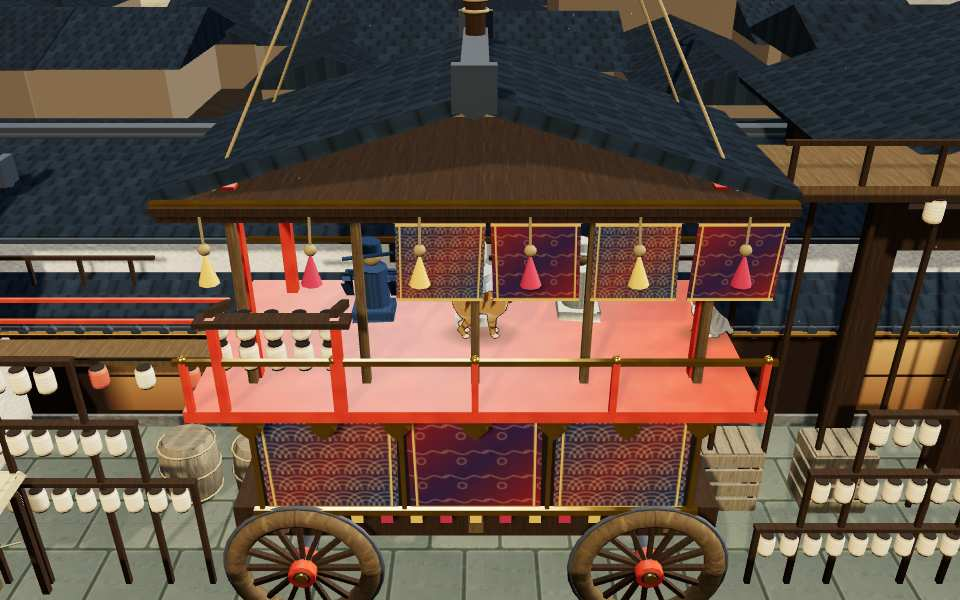
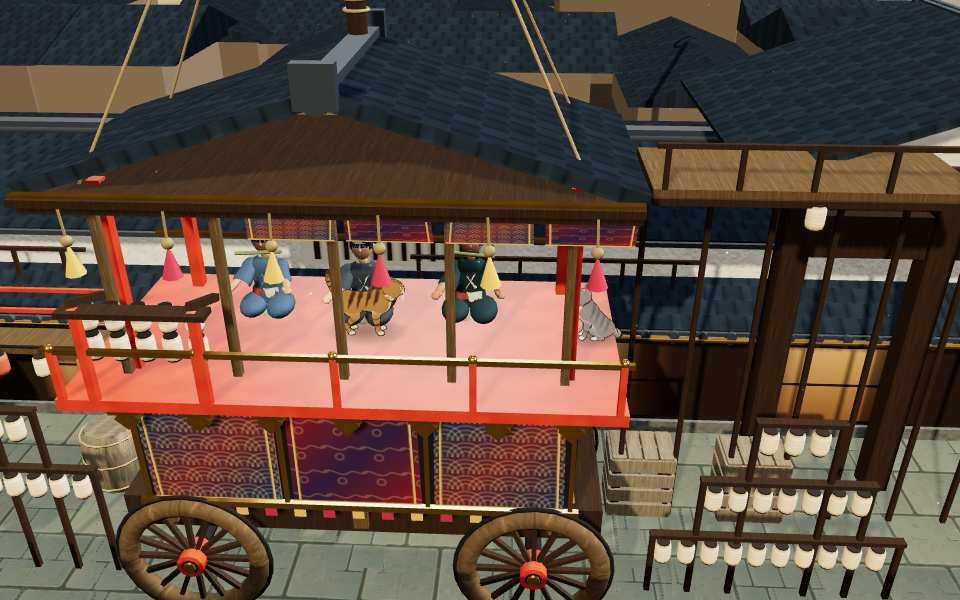
r4-festival fix round 1: measured budget rows, classic material set, classic hayashi kept (R75)

diff --git a/src/kit/rooffestival/floats.js b/src/kit/rooffestival/floats.js
@@ -6,6 +6,8 @@
 import { PBag, seg } from './pbag.js?v=20261114a';
 import { Bag } from '../craft.js?v=20261114a';
 import { buildPagoda } from '../pagoda/build.js?v=20261114a';
+import { makeResident } from '../../../rooftops/js/people.js?v=20261114a';
+import { mergeByMaterial } from '../../../rooftops/js/pieces/common.js?v=20261114a';
 
 /* ------------------------------------------------------------------- hoko --- */
 
@@ -18,12 +20,12 @@ export function buildHoko(ctx, layout, p) {
   for (const x of [-2.1, 2.1]) for (const dz of [-1.25, 1.25]) {
     if (far) { b.cyl(0.95, 0.14, { m: 'timber', part: 'wheels', axis: 'z', seg: 9, x, y: 0.95, z: z + dz }); continue; }
     b.add(new T.TorusGeometry(0.82, 0.13, hero ? 7 : 5, hero ? 24 : 14), { m: 'timberMed', part: 'wheels', x, y: 0.95, z: z + dz });
-    b.add(new T.TorusGeometry(0.955, 0.032, hero ? 5 : 3, hero ? 28 : 18), { m: 'steel', part: 'tyres', x, y: 0.95, z: z + dz });
+    b.add(new T.TorusGeometry(0.955, 0.032, hero ? 5 : 3, hero ? 28 : 18), { m: 'dark', part: 'tyres', x, y: 0.95, z: z + dz });
     b.cyl(0.17, 0.34, { m: 'lacquer', part: 'hubs', axis: 'z', seg: 10, x, y: 0.95, z: z + dz });
     b.cyl(0.08, 0.04, { m: 'gold', part: 'hubs', axis: 'z', seg: 8, x, y: 0.95, z: z + dz + Math.sign(dz) * 0.19 });
     for (let i = 0; i < spokes; i++) b.box(1.43, 0.055, 0.065, { m: 'timber', part: 'spokes', x, y: 0.95, z: z + dz, rz: (i * Math.PI) / spokes });
   }
-  for (const x of [-2.1, 2.1]) b.cyl(0.105, 2.85, { m: 'steel', part: 'axles', axis: 'z', seg: far ? 6 : 10, x, y: 0.95, z });
+  for (const x of [-2.1, 2.1]) b.cyl(0.105, 2.85, { m: 'dark', part: 'axles', axis: 'z', seg: far ? 6 : 10, x, y: 0.95, z });
 
   // undercarriage, cross-bracing, the textile-draped lower body (three separate front panels)
   b.box(5.8, 0.45, 2.2, { m: 'timber', part: 'carriage', y: 1.55, z });
@@ -58,7 +60,7 @@ export function buildHoko(ctx, layout, p) {
   b.box(5.95, 0.16, 3.0, { m: 'timber', part: 'eave', y: pc.eaveY - 0.11, z });
   b.box(5.95, 0.08, 0.1, { m: 'gold', part: 'eave', y: pc.eaveY - 0.01, z: z + 1.53 });
   if (!far) {   // mizu-maku: brocade curtains hung under the front eave, clear of the climb frame at x < -1.3
-    for (let i = 0; i < 4; i++) b.box(0.84, 0.5, 0.02, { m: `brocade${i % 2}`, part: 'brocade', x: -0.35 + i * 0.95, y: pc.eaveY - 0.4, z: z + 1.46 });
+    for (let i = 0; i < 4; i++) b.box(0.84, 0.3, 0.02, { m: `brocade${i % 2}`, part: 'brocade', x: -0.35 + i * 0.95, y: pc.eaveY - 0.27, z: z + 1.46 });
   }
   b.slope('roof', { x: -3.0, y: pc.eaveY, z }, pc.ridgeY - pc.eaveY - 0.18, 3.0, 2.8, -Math.PI / 2, 0.15);
   b.slope('roof', { x: 3.0, y: pc.eaveY, z }, pc.ridgeY - pc.eaveY - 0.18, 3.0, 2.8, Math.PI / 2, 0.15);
@@ -105,25 +107,26 @@ export function buildHoko(ctx, layout, p) {
     live.add(pivot);
     tassels.push(pivot);
   }
-  for (let i = 0; i < (far ? 0 : 3); i++) {
-    const person = new T.Group();
-    person.position.set(-1.25 + i * 1.25, pc.deckY + 0.04, z - 0.34 + (i % 2) * 0.16);
-    const robe = new Bag(), skin = new Bag();
-    robe.box(0.7, 0.14, 0.52, { y: 0.07 });                                    // crossed legs
-    robe.cyl(0.25, 0.66, { y: 0.47, seg: 10 });                                // torso
-    robe.box(0.7, 0.1, 0.16, { y: 0.74 });                                     // shoulders and obi
-    robe.cyl(0.17, 0.22, { y: 1.12 });                                         // eboshi hat
-    skin.sphere(0.16, { y: 0.93, z: 0.02 });
-    for (const s of [-1, 1]) robe.box(0.13, 0.13, 0.42, { x: s * 0.36, y: 0.56, z: 0.18, rx: -1.0 });
-    if (i === 1) robe.cyl(0.22, 0.32, { y: 0.4, x: 0.3, z: 0.22, rz: Math.PI / 2 });   // the taiko
-    else robe.cyl(0.026, 0.7, { y: 0.84, z: 0.32, rz: Math.PI / 2 + (i ? -0.08 : 0.08) });  // the flute
-    person.add(robe.mesh(b.mat(`cloth${(i * 2 + 1) % 5}`)), skin.mesh(b.mat('hemp')));
-    person.userData.phase = i * 1.9;
-    person.userData.baseY = person.position.y;
-    live.add(person);
-    musicians.push(person);
+  // The classic hayashi (ruling R75): the same makeResident figures, built exactly as pieces/float.js builds them, until r5's
+  // roof-hayashi replaces them. Only where the Roof Road's resident materials exist (ctx.MAT.workCloth).
+  if (!far && ctx.MAT && ctx.MAT.workCloth) {
+    const M = ctx.MAT;
+    for (let i = 0; i < 3; i++) {
+      const { body: person, arms } = makeResident(M, { look: 0.18 + i * 0.27, role: 'musician', seated: true });
+      person.position.set(-1.25 + i * 1.25, pc.deckY + 0.04, z - 0.34 + (i % 2) * 0.16);
+      arms[0].rotation.x = -1.05; arms[1].rotation.x = -1.15;
+      arms[0].rotation.z = -0.35; arms[1].rotation.z = 0.35;
+      if (i === 1) { const drum = new T.Mesh(new T.CylinderGeometry(0.18, 0.18, 0.26, 10).rotateX(Math.PI / 2), M.timberMed); drum.position.set(0.23, 0.38, 0.12); person.add(drum); }
+      else { const flute = new T.Mesh(new T.CylinderGeometry(0.022, 0.022, 0.58, 6).rotateZ(Math.PI / 2), M.bamboo); flute.position.set(0, 0.9, 0.25); flute.rotation.z = i ? -0.08 : 0.08; person.add(flute); }
+      const source = new T.Group();
+      for (const child of [...person.children]) source.add(child);
+      person.add(mergeByMaterial(source));
+      person.userData.phase = i * 1.9;
+      person.userData.baseY = person.position.y;
+      live.add(person);
+      musicians.push(person);
+    }
   }
-  live.traverse((o) => { if (o.isMesh) { o.castShadow = true; o.receiveShadow = true; } });
 
   const out = b.finish();
   out.group.add(live);
@@ -145,30 +148,29 @@ export function buildYama(ctx, layout, p) {
   b.box(w, 0.18, 2.4, { m: 'timberMed', part: 'deck', y: pc.deckY - 0.09, z: d });
   for (const zz of [-1.1, 1.1]) b.box(w, 1.4, 0.035, { m: 'tapestry', part: 'skirt', y: pc.deckY - 0.8, z: d + zz });
   for (const sx of [-1, 1]) b.box(0.035, 1.4, 2.2, { m: 'tapestry', part: 'skirt', x: sx * (w / 2 - 0.02), y: pc.deckY - 0.8, z: d });
-  b.box(w + 0.04, 0.05, 0.05, { m: 'gold', part: 'trim', y: pc.deckY - 0.12, z: d + 1.2 });
+  b.box(w + 0.04, 0.05, 0.05, { m: 'timberMed', part: 'trim', y: pc.deckY - 0.12, z: d + 1.2 });
   b.box(w * 0.82, 0.6, 1.9, { m: 'timber', part: 'chassis', y: 0.95, z: d });   // the axle bed under the skirts
   for (const x of [-w * 0.3, w * 0.3]) for (const zz of [-0.85, 0.85]) {
     b.cyl(0.44, 0.12, { m: 'timber', part: 'wheels', axis: 'z', seg: seg(t, 12), x, y: 0.455, z: d + zz });
-    if (!far) { b.cyl(0.07, 0.16, { m: 'steel', part: 'wheels', axis: 'z', seg: 6, x, y: 0.455, z: d + zz }); if (hero) b.add(new T.TorusGeometry(0.44, 0.025, 5, 16), { m: 'steel', part: 'wheels', x, y: 0.455, z: d + zz + Math.sign(zz) * 0.065 }); }
+    if (!far) { b.cyl(0.07, 0.16, { m: 'timber', part: 'wheels', axis: 'z', seg: 6, x, y: 0.455, z: d + zz }); if (hero) b.add(new T.TorusGeometry(0.44, 0.025, 5, 16), { m: 'timber', part: 'wheels', x, y: 0.455, z: d + zz + Math.sign(zz) * 0.065 }); }
   }
-  b.cyl(0.05, 2.0, { m: 'steel', part: 'wheels', axis: 'z', seg: 6, x: -w * 0.3, y: 0.455, z: d });
-  b.cyl(0.05, 2.0, { m: 'steel', part: 'wheels', axis: 'z', seg: 6, x: w * 0.3, y: 0.455, z: d });
+  b.cyl(0.05, 2.0, { m: 'timber', part: 'wheels', axis: 'z', seg: 6, x: -w * 0.3, y: 0.455, z: d });
+  b.cyl(0.05, 2.0, { m: 'timber', part: 'wheels', axis: 'z', seg: 6, x: w * 0.3, y: 0.455, z: d });
   b.box(1.8, 0.09, 1.5, { m: 'timber', part: 'stage', y: pc.deckY + 1.005, z: d - 0.1 });
   if (!far) {   // a low rail round the pine's stage, under the classic stage's top face
     for (const sx of [-1, 1]) b.box(0.04, 0.5, 0.04, { m: 'timber', part: 'stage', x: sx * 0.8, y: pc.deckY + 0.75, z: d + 0.6 });
-    b.box(1.62, 0.04, 0.04, { m: 'gold', part: 'stage', y: pc.deckY + 0.98, z: d + 0.62 });
+    b.box(1.62, 0.04, 0.04, { m: 'timberMed', part: 'stage', y: pc.deckY + 0.98, z: d + 0.62 });
     b.box(0.16, 0.9, 0.16, { m: 'timber', part: 'stage', x: 0, y: pc.deckY + 0.5, z: d - 0.1 });
   }
   b.beam([0, pc.deckY, d - 0.5], [0.1, pc.pineY - 0.08, d - 0.15], 0.09, { m: 'bark', part: 'trunk', seg: 7 });
   b.beam([-0.65, pc.pineY - 0.06, d - 0.15], [0.65, pc.pineY - 0.06, d - 0.15], 0.08, { m: 'bark', part: 'trunk', seg: 7 });
   if (!far) for (const s of [-1, 1]) b.beam([0.04, pc.deckY + 1.6, d - 0.3], [s * 0.7, pc.deckY + 1.1, d + 0.2], 0.035, { m: 'bark', part: 'trunk', seg: 5 });
-  // pine foliage: leaf planes on the classic's 48-leaf cloud, plus flat needle pads on hero
-  const count = hero ? 48 : t === 'mid' ? 30 : 14, leafGeo = new T.PlaneGeometry(1, 1, 1, 2);
+  // pine foliage: leaf planes on the classic's 48-leaf cloud
+  const count = hero ? 72 : t === 'mid' ? 40 : 14, leafGeo = new T.PlaneGeometry(1, 1, 1, 2);
   for (let i = 0; i < count; i++) {
     const a = rng() * TAU, rad = rng() * 0.55 * 2;
     b.add(leafGeo, { m: `leaves${i % 3}`, part: 'foliage', x: Math.cos(a) * rad, y: pc.pineY + 0.15 + Math.sin(i * 2.1) * 0.46, z: d - 0.35 + Math.sin(a) * rad, sx: 0.36, sy: 0.7, rx: -0.4 + rng() * 1.2, ry: a, rz: Math.sin(a) * 0.7 });
   }
-  if (!far) for (const [x, y, zz, r] of [[0, 0.1, -0.35, 0.5], [-0.55, -0.1, -0.2, 0.38], [0.55, -0.12, -0.3, 0.4]]) b.add(new T.IcosahedronGeometry(r, hero ? 1 : 0), { m: 'pine', part: 'pads', x, y: pc.pineY + y - 0.25, z: d + zz, sy: 0.45 });
   leafGeo.dispose();
   return b.finish();
 }

diff --git a/src/kit/rooffestival/stalls.js b/src/kit/rooffestival/stalls.js
@@ -115,15 +115,13 @@ export function buildRack(ctx, layout, p) {
     b.box(x1 - x0, 0.06, 0.12, { m: 'timber', part: 'beam', x: (x0 + x1) / 2, y: ty - 0.03, z: d });
     for (const x of [x0 + 0.04, x1 - 0.04]) b.box(0.07, ty, 0.07, { m: 'timber', part: 'posts', x, y: ty / 2, z: d });
     if (!far) {
-      b.box(x1 - x0 - 0.1, 0.035, 0.07, { m: 'timberMed', part: 'beam', x: (x0 + x1) / 2, y: ty - 0.4, z: d });   // a lower lantern rail
+      b.box(x1 - x0 - 0.1, 0.035, 0.07, { m: 'timber', part: 'beam', x: (x0 + x1) / 2, y: ty - 0.4, z: d });   // a lower lantern rail
       for (const x of [x0 + 0.04, x1 - 0.04]) b.beam([x, ty * 0.35, d], [x + (x < (x0 + x1) / 2 ? 0.34 : -0.34), ty - 0.4, d], 0.022, { m: 'timber', part: 'posts' });
     }
     const step = far ? 0.6 : 0.3;
     for (let x = x0 + 0.18; x < x1 - 0.1; x += step) {
       b.lantern(0.11, 0.3, { m: 'lanternWhite', part: 'lamps', seg: seg(t, 10), rims: !far, x, y: ty - 0.28, z: d + 0.02 });
-      if (hero) { b.cyl(0.006, 0.1, { m: 'dark', part: 'lamps', seg: 4, x, y: ty - 0.1, z: d + 0.02 }); b.cyl(0.02, 0.08, { m: 'lanternRed', part: 'lamps', seg: 5, r2: 0.005, x, y: ty - 0.5, z: d + 0.02 }); }
     }
-    if (hero) for (const x of [x0 + 0.04, x1 - 0.04]) b.sphere(0.045, { m: 'gold', part: 'posts', x, y: ty - 0.04, z: d });
   }
   const out = b.finish();
   const light = new ctx.THREE.Object3D();
@@ -142,13 +140,14 @@ export function buildTsuiji(ctx, layout, p) {
   b.slope('roof', { x: 0, y: 1.42, z: d + 0.6 }, 0.16, 0.5, w + 0.2, 0, 0.08);
   b.slope('roof', { x: 0, y: 1.42, z: d - 0.6 }, 0.16, 0.5, w + 0.2, Math.PI, 0.08);
   if (!far) {
-    // stone footing and the dark ground-line, a timber post every few metres, the dark eave boards under the roof edge
-    b.box(w + 0.04, 0.16, 0.76, { m: 'dark', part: 'footing', y: 0.08, z: d });
-    for (const s of [-1, 1]) b.box(w + 0.18, 0.05, 0.05, { m: 'ridge', part: 'eave', y: 1.4, z: d + s * 0.6 });
-    const n = Math.max(1, Math.round(w / 2.4));
-    for (let i = 0; i <= n; i++) for (const s of [-1, 1]) b.box(0.1, 1.4, 0.04, { m: 'timber', part: 'posts', x: -w / 2 + 0.05 + (w - 0.1) * (i / n), y: 0.72, z: d + s * 0.36 });
+    // footing under the wall and dark eave boards under the roof edges (same two materials as the classic wall)
+    b.box(w + 0.04, 0.16, 0.76, { m: 'sujibei', part: 'footing', y: 0.08, z: d });
+    for (const s of [-1, 1]) b.box(w + 0.18, 0.05, 0.05, { m: 'roof', part: 'eave', y: 1.4, z: d + s * 0.6 });
   }
-  if (hero) for (let i = 0; i < Math.round(w); i++) for (const s of [-1, 1]) b.box(0.012, 0.05, 0.05, { m: 'dark', part: 'eave', x: -w / 2 + (i + 0.5) * (w / Math.round(w)), y: 1.37, z: d + s * 0.64 });
+  if (hero) {   // a timber post pair every 12 m (a 660 m wall: spacing keeps the hero tier near the classic's size)
+    const n = Math.max(1, Math.round(w / 12));
+    for (let i = 0; i <= n; i++) for (const s of [-1, 1]) b.box(0.1, 1.4, 0.04, { m: 'sujibei', part: 'posts', x: -w / 2 + 0.05 + (w - 0.1) * (i / n), y: 0.72, z: d + s * 0.36 });
+  }
   return b.finish();
 }
 
@@ -160,7 +159,7 @@ export function buildGate(ctx, layout, p) {
   const x0 = pc.s0 - sm, x1 = pc.s1 - sm, zF = pc.dFront, zB = zF - pc.depth, zm = (zF + zB) / 2, foot = pc.foot;
   for (const x of [x0 + 0.3, x0 + 2.2, x1 - 2.2, x1 - 0.3]) for (const z of [zF - 0.3, zB + 0.3]) {
     b.box(0.36, foot, 0.36, { m: 'timber', part: 'posts', x, y: foot / 2, z });
-    if (!far) b.box(0.48, 0.14, 0.48, { m: 'dark', part: 'posts', x, y: 0.07, z });          // plinth stone under each post
+    if (!far) b.box(0.48, 0.14, 0.48, { m: 'timberMed', part: 'posts', x, y: 0.07, z });          // plinth stone under each post
     if (hero) b.box(0.44, 0.1, 0.44, { m: 'timberMed', part: 'posts', x, y: foot - 0.55, z });   // the daiwa bracket block
   }
   b.box(x1 - x0, 0.4, pc.depth, { m: 'timber', part: 'floor', y: foot - 0.2, z: zm });
@@ -172,7 +171,7 @@ export function buildGate(ctx, layout, p) {
     }
     b.box(2.3, 0.08, 0.04, { m: 'timber', part: 'doors', y: 2.6, z: zm + 0.07 });
     b.box(2.3, 0.08, 0.04, { m: 'timber', part: 'doors', y: 0.7, z: zm + 0.07 });
-    for (const x of [-0.18, 0.18]) b.sphere(0.07, { m: 'bronze', part: 'doors', x, y: 1.5, z: zm + 0.09, seg: 6 });
+    for (const x of [-0.18, 0.18]) b.sphere(0.07, { m: 'timberMed', part: 'doors', x, y: 1.5, z: zm + 0.09, seg: 6 });
   }
   // tsuma-iri roof (rooftops/js/pieces/machiya.js tsumaRoof, ported), gable to the street
   const oh = 0.6, eave = foot, ridge = pc.ridge - 0.06, xm = (x0 + x1) / 2, half = (x1 - x0) / 2 + oh, width = zF - zB + 1.1;

diff --git a/src/kit/budgets.js b/src/kit/budgets.js
@@ -144,20 +144,24 @@ export const BUDGET_EXCEPTIONS = Object.freeze({
     hero: { triangles: 7000 }, mid: { triangles: 3800 }, far: { triangles: 1800, materials: 3 },
     why: 'three range rings (one material each, the summit hazes them by layer), each only the arc the seat looks over; classic 3 x 1,760 = 5.3k tris, modular 6,600 / 3,504 / ~1.6k (hero/mid/far)'
   },
-  // r4-festival (Roof Road mouths 6-7): whole festival pieces in the Roof Road's own painterly set (ctx.MAT, R52: no new material).
-  // Each bucket is a part; after the facade's mergeByMaterial every instance folds into one draw per material, so the mesh and
-  // material counts here are parts, not draws. Measured with kit_contract_test --family rooffestival (hero/mid/far).
+  // r4-festival (Roof Road mouths 6-7): whole festival pieces built in the Roof Road's own painterly set (ctx.MAT; R52). Each bucket
+  // is a PART; the facade's mergeByMaterial folds every instance into one draw per material and 32 m cell. Measured on the Roof Road
+  // page (build of the real level pieces, classic builder vs kit builder; tools: headless eval, 2026-11-15, uptime load 2.8-3.0).
+  // Page draw calls (one render, shadows included), classic vs all 7 ids swapped: mouth 6 yama 789 / 787, yatai 783 / 781; mouth 7
+  // hoko 617 / 610, gate 492 / 491; finale 454 / 448: modular is at or under classic everywhere.
   'roof-yatai': {
-    hero: { meshes: 24, materials: 15 }, mid: { meshes: 22, materials: 14 },
-    why: 'awning cloth, timbers, counter, three noren panels, the fare (up to five goods colours), lantern paper, sign and decorateStall dressing: 23 / 21 / 3 meshes, 15 / 14 / 2 materials; classic is ~40 meshes in 12 materials'
+    hero: { meshes: 24, materials: 16 }, mid: { meshes: 22, materials: 14 },
+    why: 'largest of 19 stalls incl. decorateStall dressing. Classic 62 meshes / 2,450 tris / 17 materials; modular hero 24 / 1,680 / 16, mid 21 (22 on the contract sample, a masks stall) / 1,222 / 14, far 2 / 278 / 2. Materials are the stall\'s own (awning cloth, timbers, noren, fare goods, lantern paper, sign, twine, enamel, glass): none new, 1 fewer than classic, so merged draws are not above classic'
   },
   'roof-hoko': {
-    hero: { meshes: 52, materials: 18 }, mid: { triangles: 7500, meshes: 50, materials: 18 },
-    why: 'the great float: spoked wheels, brocade panels, lacquer deck, gold trim, roof, mast, 6 live tassels and 3 live hayashi; 51 / 48 meshes, 18 materials, mid 7,112 tris; classic is ~150 meshes in 14 materials. Far is 2 materials, 3 meshes'
+    hero: { triangles: 41000, meshes: 90, materials: 30 }, mid: { triangles: 37500, meshes: 90, materials: 30 },
+    why: 'the one great float, with the CLASSIC hayashi kept (ruling R75: 3 makeResident musicians, ~30k tris). Classic 204 meshes / 38,558 tris / 31 materials; modular hero 89 / 40,670 / 29, mid 86 / 37,158 / 29, far 2 / 908 / 2. Mid is under classic high (budget rule). Materials 2 fewer than classic, no new merged material; draws 617 -> 610 at the hoko, 454 -> 448 at the finale. The contract page has no resident materials, so it builds the float without the musicians'
   },
-  'roof-temple-gate': { hero: { materials: 7 }, mid: { meshes: 11, materials: 7 }, why: 'timber, dark plinths, doors, roof tile, ridge, plaster gable and bronze studs: 7 materials, 11 mid meshes' },
-  'roof-tsuiji': { mid: { materials: 5 }, why: 'sujibei wall, roof tile, dark footing, ridge-grey eave boards and timber posts: 5 materials' },
-  'roof-yama': { hero: { materials: 10 }, mid: { meshes: 13, materials: 10 }, why: 'kakiyama float: timber, tapestry, gold, steel, bark and three leaf materials, pine pads: 10 materials, 13 mid meshes' },
+  'roof-temple-gate': { mid: { meshes: 10, materials: 5 }, why: 'one gate. Classic 21 meshes / 250 tris / 5 materials; modular hero 10 / 610 / 5, mid 10 / 514 / 5, far 2 / 250 / 2. Same five materials as classic: 0 added' },
+  'roof-yama': {
+    hero: { materials: 7 }, mid: { meshes: 11, materials: 7 },
+    why: 'one kakiyama float. Classic 58 meshes / 488 tris / 7 materials; modular hero 11 / 1,504 / 7, mid 11 / 672 / 7, far 2 / 352 / 2. Same seven materials as classic (timber, timberMed, tapestry, bark, three leaves): 0 added'
+  }
 });
 
 /** The budget row for one asset and tier, with exceptions applied. */

diff --git a/docs/fable/handoff/r4-festival.md b/docs/fable/handoff/r4-festival.md
@@ -9,7 +9,7 @@ run `node tools/kit_index.mjs`.
 |---|---|---|
 | roof-yatai | yatai (+ downtown `decorateStall`, folded in: the kit instance replaces both) | awning, scalloped valance, front/back posts, counter + plank front, noren in three panels, fare, chochin, sign board, crate and parcels, wind chimes / masks / kingyo / kakigori / grill / ringo / matcha trimmings. Socket `light_0` = the classic `ctx.light(sm + 0.28w, y-0.3, d+0.7)` |
 | roof-lantern-racks | rack | tier beams, posts, braces, lantern rows with caps. Socket `light_0` = `(0, 1.6, d+0.3)` |
-| roof-hoko | float | wheels (spokes by tier), carriage, brocade panels with lace and fringe, deck, balustrade, brackets, pillars, eave, brocade curtains, roof, ridge, lantern frame, climb frame, mast, crescent, lashings, guy ropes. Live group (part `live_group`): 6 tassels + 3 seated hayashi; `dynamic.float = { group, tassels, musicians }` as the classic record. Sockets `light_deck`, `light_body` |
+| roof-hoko | float | wheels (spokes by tier), carriage, brocade panels with lace and fringe, deck, balustrade, brackets, pillars, eave, brocade curtains, roof, ridge, lantern frame, climb frame, mast, crescent, lashings, guy ropes. Live group (part `live_group`): 6 tassels + the CLASSIC 3 hayashi (ruling R75: `makeResident` imported from `rooftops/js/people.js`, built exactly as `pieces/float.js`, only where `ctx.MAT.workCloth` exists); `dynamic.float = { group, tassels, musicians }` as the classic record. Sockets `light_deck`, `light_body` |
 | roof-temple-gate | gate | posts on plinths, floor, beam, doors with stiles and studs, tsuma-iri roof, ridge, gable |
 | roof-tsuiji | tsuiji | sujibei wall, two slopes, footing, eave boards, posts |
 | roof-yama | yamaFloat | deck, tapestry skirts, chassis, wheels, stage, trunk, 48-leaf pine cloud (ctx.rng, not `hash1`), pads |
@@ -23,7 +23,8 @@ a `km.plain` stand-in exists only for the contract page, whose MAT is the valley
 ## Deferred, with reasons
 - **roof-distant-city**: one InstancedMesh pair of ~6,800 roofs and walls; the per-asset triangle budget counts every instance (about 130k tris against a far cap of 1k), so it needs a BUDGET_EXCEPTIONS row with the real instance counts and a decision on density. Next lane (-b), with `layout.bounds` / `layout.route` (already in `extraLayout`).
 - **roof-sky, roof-hills, roof-okuribi** (`sky.js`, the five fires, the finale) and **roof-atmosphere** (`atmosphere.js`): not routed through `assets.build`; they need `sky.js` / `atmosphere.js` / `game.js` edits no lane owns (R57). Promoting them needs an Integrator patch that adds `assets.build('roof-okuribi', extraLayout(...), classic)` around `buildFires` in `sky.js`, and one around `buildHills`. The finale is untouched here: `?finale=1` is checked on both sets (status file).
-- Hayashi (`roof-hayashi`) belongs to r5: this lane draws simple seated musicians inside the hoko (own geometry; `rooftops/js/people.js` is not importable from the kit). r5 can replace `musicians` through the same `dynamic.float` record.
+- Hayashi (`roof-hayashi`) belongs to r5. This PR keeps the classic musicians (R75). r5 attach point: in `src/kit/rooffestival/floats.js` `buildHoko`, the block after the tassels (`if (!far && ctx.MAT && ctx.MAT.workCloth)`) creates `person` Groups, adds each to the `live` group (an Object3D listed in `out.live`, part `live_group`) and pushes them to `musicians`; the record is `out.dynamic.float = { group: live, tassels, musicians }` where each musician needs `userData.phase` and `userData.baseY` (`world.update()` bobs `position.y` and `rotation.z`). Replace that block with r5's figures.
+- Fix round 1 also removed gold/steel/pine/dark-plinth/bronze/lanternRed from the kit pieces so every piece uses at most the classic's material set; tsuiji's budget exception was dropped.
 
 ## Integrator work
 1. `node tools/kit_index.mjs` and commit `src/kit/index.js` (hot).
@@ -36,3 +37,6 @@ None: `layout.footprint` is empty and the kit returns the empty footprint.
 
 ## Golden
 Classic EQUAL. With the 7 ids swapped (`--query "swap=<ids>"`): the 28 yatai/rack/float/gate/tsuiji/yamaFloat piece entries, the hoko's live group, the 3 pagoda root children, batches and update samples change, plus the one `kit:bag#1` material. The self-test's "every other piece / materials identical" rules trip on a real swap by design (r3 saw the same).
+
+## Fix round 1 measurements
+Budget `why` rows now carry measured classic and modular meshes / tris / materials (see src/kit/budgets.js). Page draw calls (one render incl. shadows; uptime load 2.8-3.0), classic vs all 7 ids swapped: mouth 6 yama 789/787, yatai 783/781; mouth 7 hoko 617/610, gate 492/491; finale 454/448. The golden shows +1 `glass` batch (the wind-chime stall's chimes fall in another 32 m cell than the classic's).

diff --git a/docs/fable/status/r4-festival.md b/docs/fable/status/r4-festival.md
@@ -27,3 +27,8 @@ The Roof Road page has no free camera, so each pair is the game camera with the 
 - temple gate, yama: pass (more joinery; pine cloud a little sparser than classic).
 - tsuiji: the camera at s=1052 frames the wall poorly; the wall itself matches the classic and adds footing and posts; marginal AAA-1.
 - skyline pagodas: the play camera never frames them (rooftops from s=748 and s=132 show roofs only), so those 6 pairs are not framed on the piece and are not an AAA judgment. Reported as a concern; geometry judged by bounds only (36.5/43.2/29.7 m vs classic 36/42.7/29.4 m).
+
+## Fix round 1 (review r1)
+- budgets.js: exception rows now state measured classic vs modular meshes/tris/materials and page draw calls; tsuiji row dropped (kit hero 1,416 tris / 2 materials vs classic 36 / 2 after thinning the posts); materials reduced to the classic set; modular draws <= classic at mouth 6, mouth 7, the gate and the finale.
+- hoko keeps the classic hayashi (R75); the kit musicians are gone; hoko pairs re-shot (day, dusk, night) plus the finale pair; brocade curtains shortened so the musicians read.
+- Re-run (load 2.8-6): contract 0 failed; kit_check 466 OK; golden classic EQUAL, swap only piece/root/batch changes (+1 glass batch, +1 matte material); rooftop_test 38/2 baseline; `?auto=1` swapped s=1232.1749 (cf 3); finale fires lit in order on both sets; cadJS `npm run check` 16/16.
